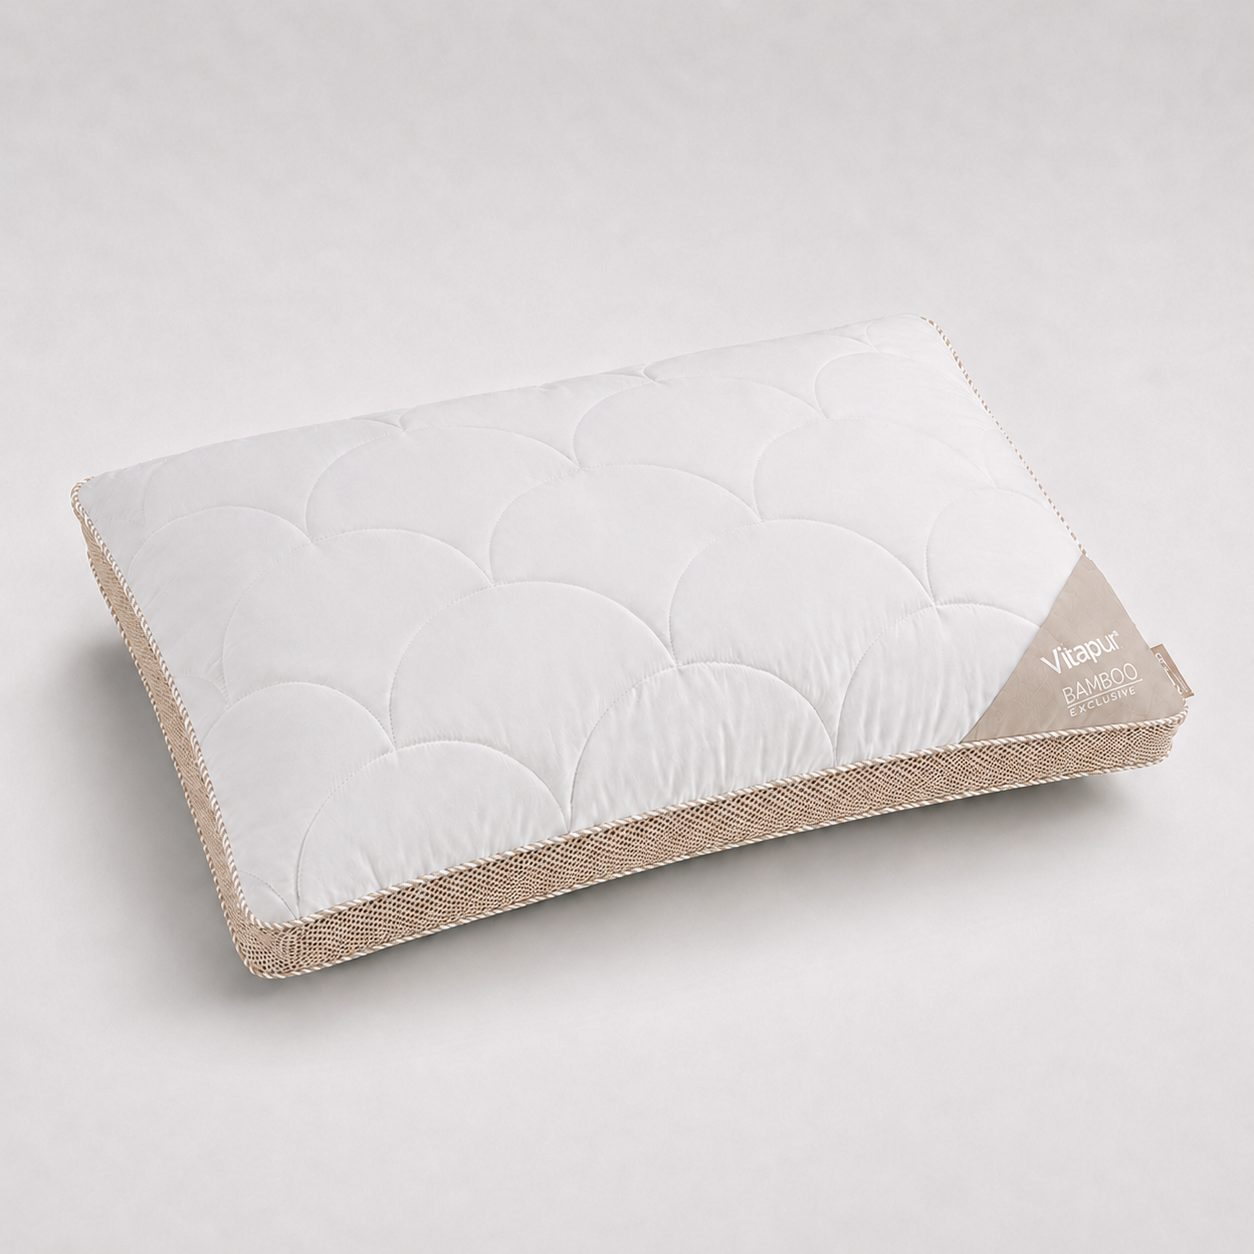
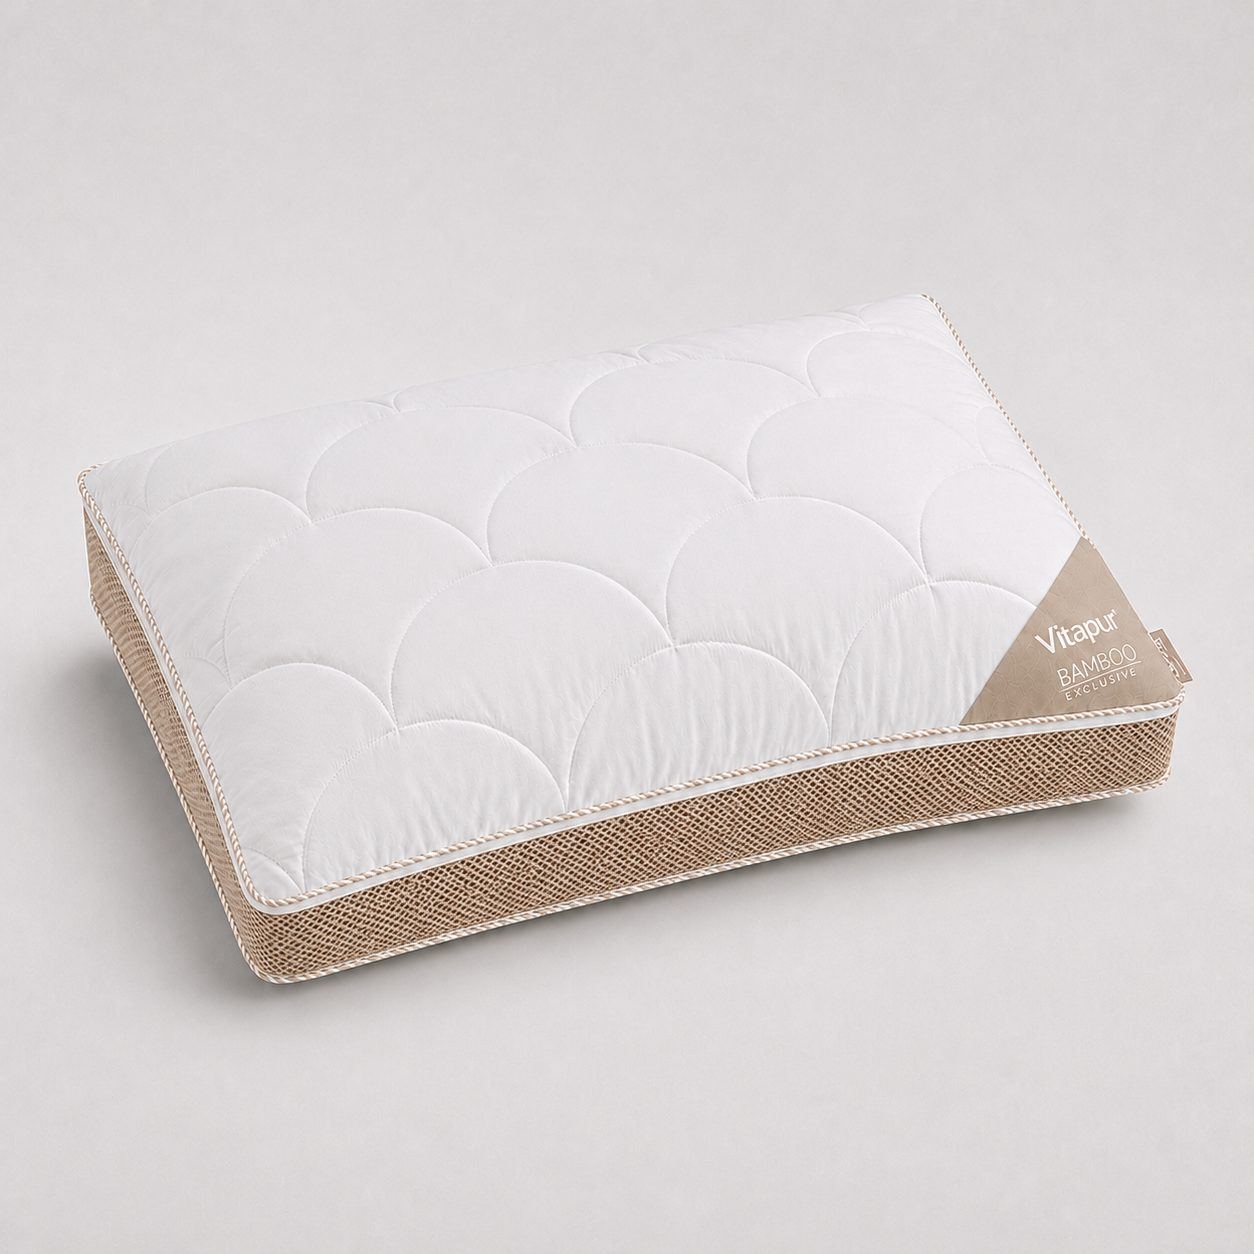
22335: mreza vstavljena, bel rob viden ob sivu (sloti 1, 3)

Changed region(s): [[0.0622, 0.3732, 0.9641, 0.8086], [0.7464, 0.2488, 0.7775, 0.311]]

diff --git a/vzglavnik-bamboo-exclusive.html b/vzglavnik-bamboo-exclusive.html
@@ -21,6 +21,6 @@
   @media (prefers-color-scheme: dark) { :root { --bg:#191713; --ink:#ece7df; --muted:#97907f; } figure { background:#221f1a; box-shadow:0 1px 3px rgba(0,0,0,.4);} }
 </style></head>
 <body><header><div class="eyebrow">Vitapur · Vzglavniki</div><h1>Bamboo Exclusive — klasični</h1><p>SKU 22335 · 50×70 cm, višina 15 cm · školjkasto prešitje, bambusova mikrovlakna, tan paspula + tan 3D mesh letev, khaki vogalni panel</p><a class="back" href="kat-vzglavniki.html">&larr; Vsi vzglavniki</a></header>
-<div class="grid"><figure><a href="img/vzglavnik-bamboo-exclusive/01_entry.jpg?v=20260728c" target="_blank"><img src="img/vzglavnik-bamboo-exclusive/01_entry.jpg?v=20260728c" alt="1 · ENTRY — Naslovni hero" loading="lazy"></a><figcaption><span class="num">01<span class="hero-tag">MAIN</span></span><div class="cap">1 · ENTRY — Naslovni hero</div></figcaption></figure><figure><a href="img/vzglavnik-bamboo-exclusive/02_polnilo.jpg" target="_blank"><img src="img/vzglavnik-bamboo-exclusive/02_polnilo.jpg" alt="2 · POLNILO — Bambusova mikrovlakna" loading="lazy"></a><figcaption><span class="num">02</span><div class="cap">2 · POLNILO — Bambusova mikrovlakna</div></figcaption></figure><figure><a href="img/vzglavnik-bamboo-exclusive/03_prevleka.jpg?v=20260728c" target="_blank"><img src="img/vzglavnik-bamboo-exclusive/03_prevleka.jpg?v=20260728c" alt="3 · PREVLEKA — Školjkasto prešitje + vogalni panel" loading="lazy"></a><figcaption><span class="num">03</span><div class="cap">3 · PREVLEKA — Školjkasto prešitje + vogalni panel</div></figcaption></figure><figure><a href="img/vzglavnik-bamboo-exclusive/04_profil.jpg" target="_blank"><img src="img/vzglavnik-bamboo-exclusive/04_profil.jpg" alt="4 · PROFIL — Boksan profil ~15 cm" loading="lazy"></a><figcaption><span class="num">04</span><div class="cap">4 · PROFIL — Boksan profil ~15 cm</div></figcaption></figure><figure><a href="img/vzglavnik-bamboo-exclusive/05_tehnologija.jpg" target="_blank"><img src="img/vzglavnik-bamboo-exclusive/05_tehnologija.jpg" alt="5 · TEHNOLOGIJA — Tan 3D zračni mesh (makro)" loading="lazy"></a><figcaption><span class="num">05</span><div class="cap">5 · TEHNOLOGIJA — Tan 3D zračni mesh (makro)</div></figcaption></figure><figure><a href="img/vzglavnik-bamboo-exclusive/06_ljudje.jpg" target="_blank"><img src="img/vzglavnik-bamboo-exclusive/06_ljudje.jpg" alt="6 · LJUDJE — Življenjski slog" loading="lazy"></a><figcaption><span class="num">06</span><div class="cap">6 · LJUDJE — Življenjski slog</div></figcaption></figure></div>
+<div class="grid"><figure><a href="img/vzglavnik-bamboo-exclusive/01_entry.jpg?v=20260728d" target="_blank"><img src="img/vzglavnik-bamboo-exclusive/01_entry.jpg?v=20260728d" alt="1 · ENTRY — Naslovni hero" loading="lazy"></a><figcaption><span class="num">01<span class="hero-tag">MAIN</span></span><div class="cap">1 · ENTRY — Naslovni hero</div></figcaption></figure><figure><a href="img/vzglavnik-bamboo-exclusive/02_polnilo.jpg" target="_blank"><img src="img/vzglavnik-bamboo-exclusive/02_polnilo.jpg" alt="2 · POLNILO — Bambusova mikrovlakna" loading="lazy"></a><figcaption><span class="num">02</span><div class="cap">2 · POLNILO — Bambusova mikrovlakna</div></figcaption></figure><figure><a href="img/vzglavnik-bamboo-exclusive/03_prevleka.jpg?v=20260728d" target="_blank"><img src="img/vzglavnik-bamboo-exclusive/03_prevleka.jpg?v=20260728d" alt="3 · PREVLEKA — Školjkasto prešitje + vogalni panel" loading="lazy"></a><figcaption><span class="num">03</span><div class="cap">3 · PREVLEKA — Školjkasto prešitje + vogalni panel</div></figcaption></figure><figure><a href="img/vzglavnik-bamboo-exclusive/04_profil.jpg" target="_blank"><img src="img/vzglavnik-bamboo-exclusive/04_profil.jpg" alt="4 · PROFIL — Boksan profil ~15 cm" loading="lazy"></a><figcaption><span class="num">04</span><div class="cap">4 · PROFIL — Boksan profil ~15 cm</div></figcaption></figure><figure><a href="img/vzglavnik-bamboo-exclusive/05_tehnologija.jpg" target="_blank"><img src="img/vzglavnik-bamboo-exclusive/05_tehnologija.jpg" alt="5 · TEHNOLOGIJA — Tan 3D zračni mesh (makro)" loading="lazy"></a><figcaption><span class="num">05</span><div class="cap">5 · TEHNOLOGIJA — Tan 3D zračni mesh (makro)</div></figcaption></figure><figure><a href="img/vzglavnik-bamboo-exclusive/06_ljudje.jpg" target="_blank"><img src="img/vzglavnik-bamboo-exclusive/06_ljudje.jpg" alt="6 · LJUDJE — Življenjski slog" loading="lazy"></a><figcaption><span class="num">06</span><div class="cap">6 · LJUDJE — Življenjski slog</div></figcaption></figure></div>
 <footer>Koncept galerije — julij 2026 · Vitapur · komentar vpiši pod posamezno sliko</footer><script src="comments.js" defer></script>
 </body></html>
